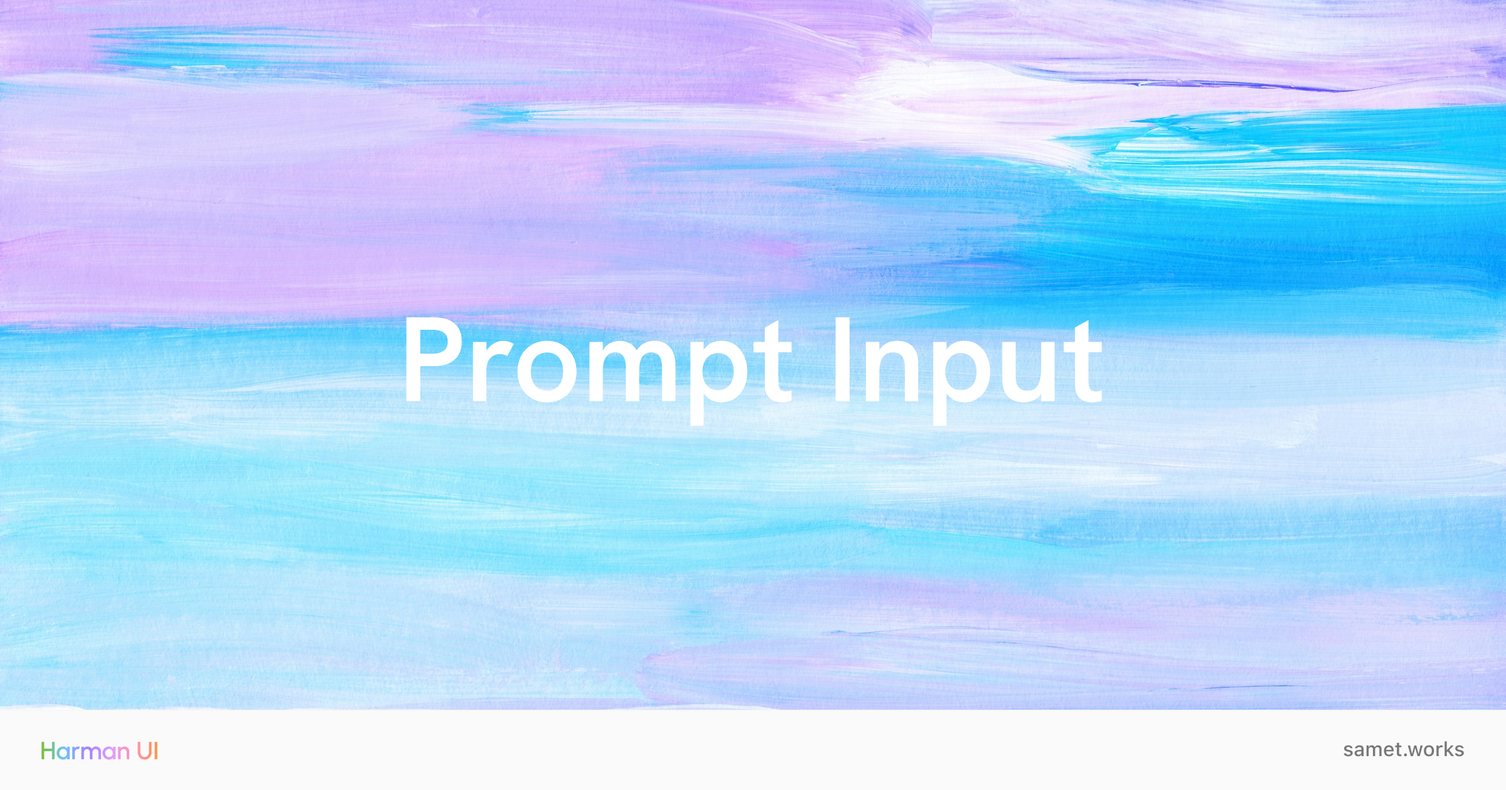
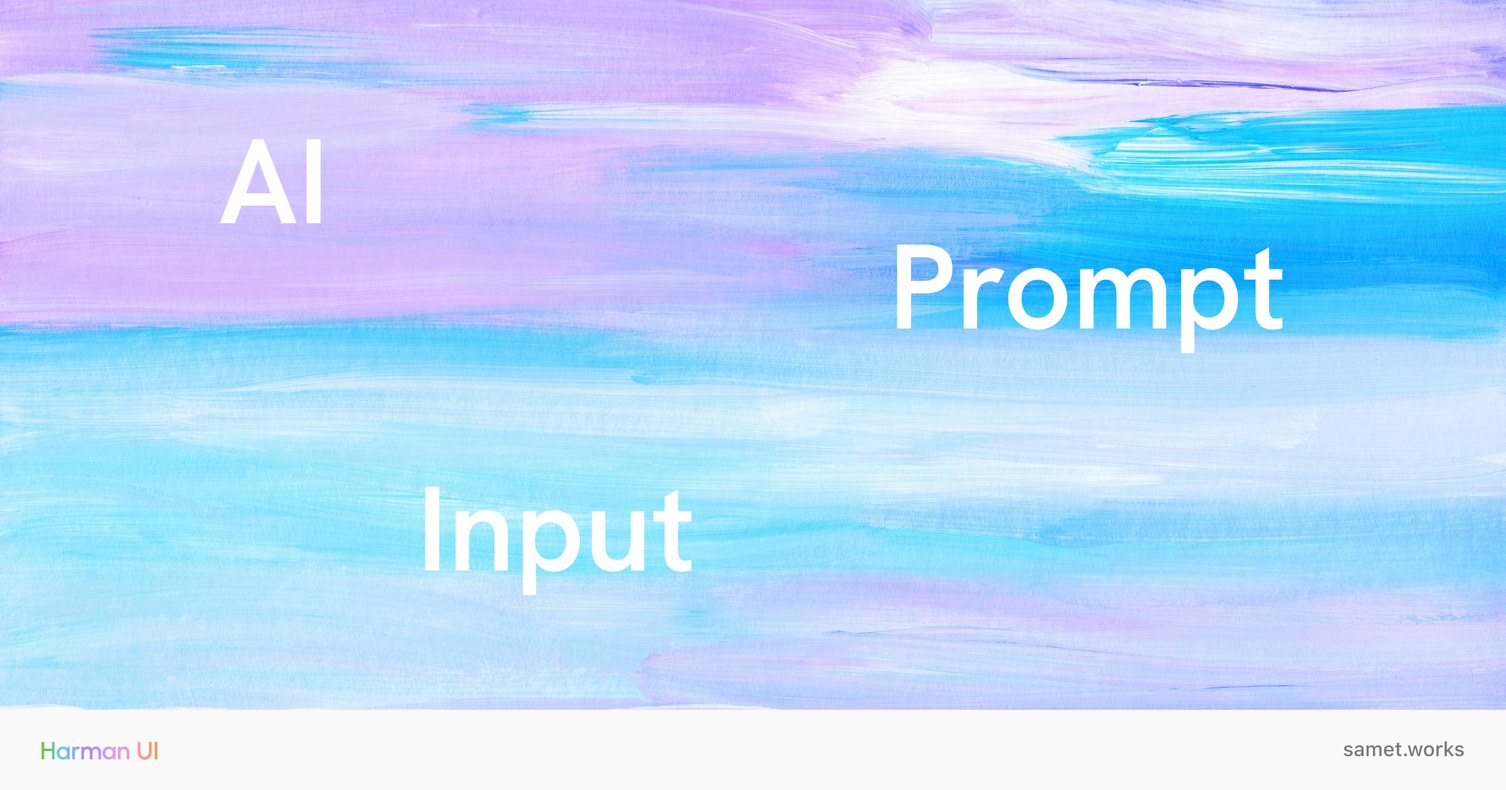
Fix dropdown scroll jump and unify dark select option styling
Made-with: Cursor

Changed region(s): [[0.25, 0.3095, 0.875, 0.5571], [0.2812, 0.619, 0.4688, 0.7429], [0.125, 0.1857, 0.2188, 0.2786]]

diff --git a/src/ai-prompt-input.tsx b/src/ai-prompt-input.tsx
@@ -1,6 +1,6 @@
 "use client";
 
-import { useState, useCallback, useEffect, useRef } from "react";
+import { useState, useCallback, useEffect, useLayoutEffect, useRef } from "react";
 import { motion } from "framer-motion";
 import { X, FileText } from "lucide-react";
 import { PromptTextarea } from "./prompt-textarea";
@@ -67,8 +67,12 @@ export function AIPromptInput({
   const [isHovered, setIsHovered] = useState(false);
   const [dropdownOpenCount, setDropdownOpenCount] = useState(0);
   const [isSingleLine, setIsSingleLine] = useState(true);
+  const rootRef = useRef<HTMLDivElement | null>(null);
   const scrollYBeforeOpenRef = useRef(0);
-  const bodyStylesRef = useRef<{ overflow: string; paddingRight: string } | null>(null);
+  const scrollXBeforeOpenRef = useRef(0);
+  const scrollLockCleanupRef = useRef<null | (() => void)>(null);
+  const openScrollGuardCancelRef = useRef<null | (() => void)>(null);
+  const anchorTopRef = useRef<number | null>(null);
 
   const hasContent = text.trim().length > 0 || attachedFiles.length > 0;
   const isToolbarVisible =
@@ -77,47 +81,126 @@ export function AIPromptInput({
   const saveScrollBeforeDropdown = useCallback(() => {
     if (typeof window !== "undefined") {
       scrollYBeforeOpenRef.current = window.scrollY;
+      scrollXBeforeOpenRef.current = window.scrollX;
     }
   }, []);
 
   useEffect(() => {
-    if (typeof document === "undefined") return;
-    const body = document.body;
-    if (dropdownOpenCount > 0) {
-      const scrollbarWidth = window.innerWidth - document.documentElement.clientWidth;
-      bodyStylesRef.current = {
-        overflow: body.style.overflow,
-        paddingRight: body.style.paddingRight,
-      };
-      body.style.overflow = "hidden";
-      if (scrollbarWidth > 0) {
-        body.style.paddingRight = `${scrollbarWidth}px`;
-      }
-    } else {
-      if (bodyStylesRef.current) {
-        body.style.overflow = bodyStylesRef.current.overflow;
-        body.style.paddingRight = bodyStylesRef.current.paddingRight;
-        bodyStylesRef.current = null;
-      }
-    }
+    if (typeof window === "undefined") return;
+    if (dropdownOpenCount <= 0) return;
+    if (scrollLockCleanupRef.current) return;
+
+    // Some browsers may scroll the page when Radix opens a menu/select.
+    // Keep the viewport locked to the scroll position captured on trigger down.
+    let raf = 0;
+    const onScroll = () => {
+      if (raf) cancelAnimationFrame(raf);
+      raf = requestAnimationFrame(() => {
+        if (
+          window.scrollY !== scrollYBeforeOpenRef.current ||
+          window.scrollX !== scrollXBeforeOpenRef.current
+        ) {
+          window.scrollTo(scrollXBeforeOpenRef.current, scrollYBeforeOpenRef.current);
+        }
+      });
+    };
+
+    window.addEventListener("scroll", onScroll, { passive: true });
+    onScroll();
+    scrollLockCleanupRef.current = () => {
+      if (raf) cancelAnimationFrame(raf);
+      window.removeEventListener("scroll", onScroll);
+    };
     return () => {
-      if (bodyStylesRef.current) {
-        body.style.overflow = bodyStylesRef.current.overflow;
-        body.style.paddingRight = bodyStylesRef.current.paddingRight;
-        bodyStylesRef.current = null;
-      }
+      scrollLockCleanupRef.current?.();
+      scrollLockCleanupRef.current = null;
     };
   }, [dropdownOpenCount]);
 
+  // Compensate for layout shifts caused by toolbar expand/collapse so the page
+  // doesn't appear to "jump" when opening/closing dropdowns.
+  useLayoutEffect(() => {
+    if (typeof window === "undefined") return;
+    const el = rootRef.current;
+    if (!el) return;
+    if (anchorTopRef.current == null) return;
+
+    const desiredTop = anchorTopRef.current;
+    const currentTop = el.getBoundingClientRect().top;
+    const delta = currentTop - desiredTop;
+    if (delta !== 0) {
+      window.scrollTo(window.scrollX, window.scrollY + delta);
+    }
+
+    // Clear after one layout pass (open/close).
+    anchorTopRef.current = null;
+  }, [dropdownOpenCount]);
+
   const handleDropdownOpenChange = useCallback((open: boolean) => {
-    setDropdownOpenCount((prev) => (open ? prev + 1 : Math.max(0, prev - 1)));
     if (typeof window !== "undefined" && open) {
-      const restore = () =>
-        window.scrollTo(0, scrollYBeforeOpenRef.current);
+      // Activate scroll lock immediately (before state/effect runs) to catch the
+      // very first auto-scroll that can happen while opening.
+      if (!scrollLockCleanupRef.current) {
+        let raf = 0;
+        const onScroll = () => {
+          if (raf) cancelAnimationFrame(raf);
+          raf = requestAnimationFrame(() => {
+            if (
+              window.scrollY !== scrollYBeforeOpenRef.current ||
+              window.scrollX !== scrollXBeforeOpenRef.current
+            ) {
+              window.scrollTo(scrollXBeforeOpenRef.current, scrollYBeforeOpenRef.current);
+            }
+          });
+        };
+        window.addEventListener("scroll", onScroll, { passive: true });
+        onScroll();
+        scrollLockCleanupRef.current = () => {
+          if (raf) cancelAnimationFrame(raf);
+          window.removeEventListener("scroll", onScroll);
+        };
+      }
+
+      // Some browsers perform a programmatic scroll during/after the open
+      // transition (focus management). Guard for a short window to prevent any
+      // visible "jump" even if no scroll events are observed.
+      openScrollGuardCancelRef.current?.();
+      const startedAt = performance.now();
+      let guardRaf = 0;
+      const guard = () => {
+        window.scrollTo(scrollXBeforeOpenRef.current, scrollYBeforeOpenRef.current);
+        if (performance.now() - startedAt < 250) {
+          guardRaf = requestAnimationFrame(guard);
+        } else {
+          openScrollGuardCancelRef.current = null;
+        }
+      };
+      guardRaf = requestAnimationFrame(guard);
+      openScrollGuardCancelRef.current = () => {
+        if (guardRaf) cancelAnimationFrame(guardRaf);
+        openScrollGuardCancelRef.current = null;
+      };
+
+      const restore = () => window.scrollTo(scrollXBeforeOpenRef.current, scrollYBeforeOpenRef.current);
       requestAnimationFrame(restore);
       requestAnimationFrame(() => requestAnimationFrame(restore));
       window.setTimeout(restore, 0);
     }
+
+    setDropdownOpenCount((prev) => {
+      if (typeof window !== "undefined") {
+        const el = rootRef.current;
+        if (el) anchorTopRef.current = el.getBoundingClientRect().top;
+      }
+      const next = open ? prev + 1 : Math.max(0, prev - 1);
+      if (next === 0) {
+        openScrollGuardCancelRef.current?.();
+        openScrollGuardCancelRef.current = null;
+        scrollLockCleanupRef.current?.();
+        scrollLockCleanupRef.current = null;
+      }
+      return next;
+    });
   }, []);
 
   const handleSubmit = useCallback(() => {
@@ -219,9 +302,11 @@ export function AIPromptInput({
 
   return (
     <motion.div
+      ref={rootRef}
       className={`group/main overflow-hidden transition-colors duration-200 rounded-2xl ${
         error ? "border-2 border-red-500" : ""
       } ${className}`}
+      style={{ overflowAnchor: "none" }}
       animate={error && !reduceMotion ? { x: [0, -6, 6, -6, 6, 0] } : false}
       transition={error && !reduceMotion ? { duration: 0.4 } : undefined}
       onMouseEnter={() => setIsHovered(true)}

diff --git a/src/select.tsx b/src/select.tsx
@@ -54,11 +54,15 @@ const SelectItem = forwardRef<
 >(({ className, children, ...props }, ref) => (
   <SelectPrimitive.Item
     ref={ref}
+    data-radix-select-item=""
     className={`${SELECT_ITEM_STYLES} ${className ?? ""}`}
     {...props}
   >
     <SelectPrimitive.ItemText>{children}</SelectPrimitive.ItemText>
-    <SelectPrimitive.ItemIndicator className="ml-auto shrink-0 text-[#17181A]">
+    <SelectPrimitive.ItemIndicator
+      data-radix-select-item-indicator=""
+      className="ml-auto shrink-0 text-current"
+    >
       <Check className="h-4 w-4" />
     </SelectPrimitive.ItemIndicator>
   </SelectPrimitive.Item>
